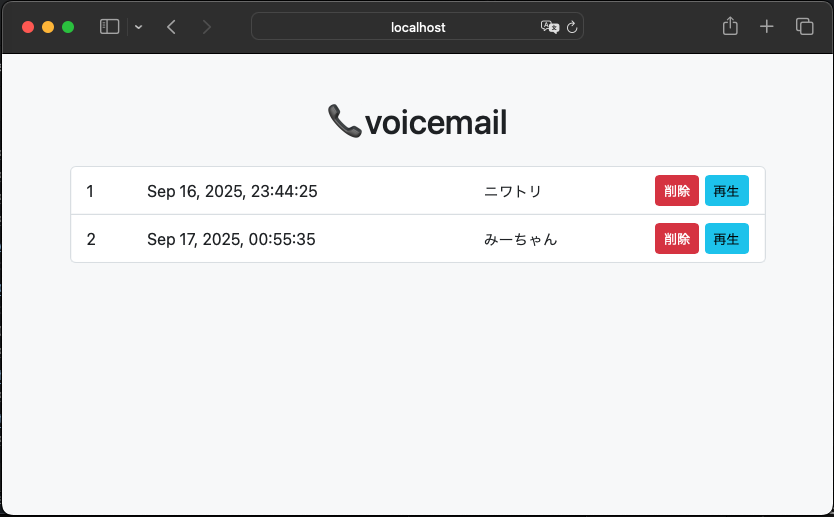
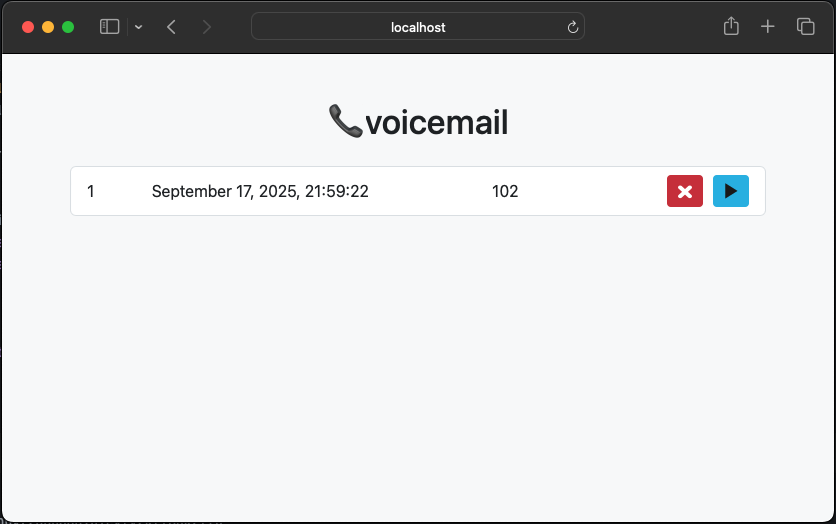
Simple Multilingualization

diff --git a/assets/web/index.html b/assets/web/index.html
@@ -13,15 +13,21 @@
 <div class="container py-5" style="width:800px">
     <h1 class="text-center mb-4">📞voicemail</h1>
 
-    <div id="voicemail-list" class="list-group">
-        <div class="text-center text-secondary">読み込み中...</div>
-    </div>
+    <div id="voicemail-list" class="list-group"></div>
 </div>
-
 <script>
+    async function loadMessages() {
+        if (navigator.language.startsWith('ja')) {
+            msg = await import('./js/ja-jp.js');
+        } else {
+            msg = await import('./js/en-us.js');
+        }
+        return msg;
+    }
     async function loadVoices() {
         const listElem = document.getElementById('voicemail-list');
-        listElem.innerHTML = '<div class="text-center text-secondary">読み込み中...</div>';
+
+        listElem.innerHTML = '<div class="text-center text-secondary">'+msg.LOADING+'</div>';
 
         try {
             const lists = await fetch('/api/all')
@@ -35,7 +41,7 @@
                 });
 
             if (lists.length === 0) {
-                listElem.innerHTML = '<div class="text-center text-muted">着信はありません。</div>';
+                listElem.innerHTML = '<div class="text-center text-muted">'+msg.NO_CALL+'</div>';
                 return;
             }
 
@@ -61,14 +67,14 @@
                 const voiceTel = document.createElement('div');
                 voiceTel.textContent = json.VoiceList.tel;
                 voiceTel.className = 'tel';
-                const delBtn = document.createElement('button');
-                delBtn.className = 'btn btn-sm btn-danger';
-                delBtn.textContent = '削除';
-                delBtn.onclick = () => deleteVoiceData(json.VoiceList.id);
 
-                const playBtn = document.createElement('button');
-                playBtn.className = 'btn btn-sm btn-info';
-                playBtn.textContent = '再生';
+                const delBtn = document.createElement('img');
+                delBtn.src = 'img/del.png';
+                delBtn.alt = msg.DEL_VOICE;
+                delBtn.onclick = () => deleteVoiceData(json.VoiceList.id);
+                const playBtn = document.createElement('img');
+                playBtn.src = 'img/play.png';
+                playBtn.alt = msg.PLAY_VOICE;
                 playBtn.onclick = () => playVoiceData(json.VoiceList.id);
 
                 voiceItem.appendChild(voiceNo);
@@ -110,13 +116,13 @@
                                 body: JSON.stringify({ tel: tel, name: newValue })
                             })
                                 .then(response => {
-                                    if (!response.ok) throw new Error('サーバーエラー');
+                                    if (!response.ok) throw new Error(msg.SRV_ERROR);
                                 })
                                 .then(data => {
                                     location.reload();
                                 })
                                 .catch(err => {
-                                    alert('更新に失敗しました: ' + err.message);
+                                    alert(msg.UPD_FAILED + err.message);
                                     target.textContent = originalText;
                                 });
                         } else {
@@ -135,13 +141,13 @@
                 }
             });
         } catch (err) {
-            console.error('読み込みエラー:', err);
-            listElem.innerHTML = '<div class="text-danger text-center">読み込みに失敗しました。</div>';
+            console.error(msg.READ_ERROR, err);
+            listElem.innerHTML = '<div class="text-danger text-center">'+msg.LOAD_ERROR+'</div>';
         }
     }
 
     async function deleteVoiceData(id) {
-        if (!confirm('この録音を削除しますか？')) return;
+        if (!confirm(msg.DEL_REC)) return;
 
         try {
             const res = await fetch(`/api/del/${id}`, {
@@ -151,12 +157,12 @@
             if (res.ok) {
                 await loadVoices(); // 再読み込み
             } else {
-                alert('削除に失敗しました');
+                alert(msg.DEL_FAILED);
             }
 
         } catch (err) {
-            console.error('削除エラー:', err);
-            alert('削除に失敗しました');
+            console.error(msg.DEL_ERROR, err);
+            alert(msg.DEL_ERROR);
         }
     }
 
@@ -175,12 +181,13 @@
 
     function local_time_fmt(event_time) {
         return new Intl.DateTimeFormat(navigator.language, {
-            dateStyle: "medium",
+            dateStyle: "long",
             timeStyle: "medium",
             hour12: false,
         }).format(new Date(Date.parse(event_time)));
     }
-    
+
+    var msg = loadMessages();
     // 初期読み込み
     loadVoices();
 </script>

diff --git a/assets/web/js/ja-jp.js b/assets/web/js/ja-jp.js
@@ -1,0 +1,11 @@
+export const LOADING = "読み込み中..."
+export const NO_CALL = "着信はありません。"
+export const DEL_VOICE = "削除"
+export const PLAY_VOICE = "再生"
+export const SRV_ERROR = "サーバーエラー"
+export const UPD_FAILED = "更新に失敗しました:"
+export const READ_ERROR = "読み込みエラー:"
+export const LOAD_ERROR = "読み込みに失敗しました。"
+export const DEL_REC = "この録音を削除しますか？"
+export const DEL_FAILED = "削除に失敗しました"
+export const DEL_ERROR = "削除エラー:"

diff --git a/assets/web/js/en-us.js b/assets/web/js/en-us.js
@@ -1,0 +1,11 @@
+export const LOADING = "Loading..."
+export const NO_CALL = "No incoming calls."
+export const DEL_VOICE = "delete"
+export const PLAY_VOICE = "play"
+export const SRV_ERROR = "Server Error"
+export const UPD_FAILED = "Update failed: "
+export const READ_ERROR = "Read error: "
+export const LOAD_ERROR = "Failed to load."
+export const DEL_REC = "Do you want to delete this recording?"
+export const DEL_FAILED = "Deletion failed."
+export const DEL_ERROR = "Deletion error:"

diff --git a/src/web/mod.rs b/src/web/mod.rs
@@ -47,6 +47,9 @@ async fn assets(assets: web::Path<(String, String)>) -> Result<HttpResponse, AcE
             s if s == "css" => Ok(HttpResponse::build(StatusCode::OK)
                 .content_type(ContentType(mime::TEXT_CSS_UTF_8))
                 .body(d?)),
+            s if s == "img" => Ok(HttpResponse::build(StatusCode::OK)
+                .content_type(ContentType(mime::IMAGE_PNG))
+                .body(d?)),
             _ => Err(ErrorNotFound(EmptyName)),
         },
         Err(e) => Err(ErrorInternalServerError(e)),
